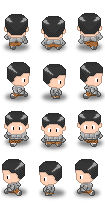
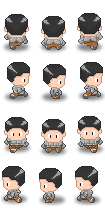
Refatorando movimento de jogador
Alterado o controle de direção do jogador e existe agoa apenas uma
propriedade booleana que diz se ele está em movimento ou não.

Acerto nas alturas das imagens.

diff --git a/cesjfgg2.js b/cesjfgg2.js
@@ -4,8 +4,14 @@ var ctx = tela.getContext("2d");
 ctx.fillRect(0, 0, 400, 300);
 
 var jogador = {
-   x: 370,  y:170, a:25, l:25, vx: 60, vy: 60  
+   x: 10,   y: 10,
+   l: 35,   a: 52,
+   v: 100,
+   quadro: 0,
+   direcao: 0,
+   movendo: false
 };
+   var coluna;
 var porta = {
    x: 370, a:35, y:270, l:25  
 };
@@ -15,19 +21,10 @@ var inimigo = {
 
 
 
-jogador.y = 10;
-jogador.x = 10;
-jogador.a = 48;
-jogador.l = 35;
-jogador.quadro = 0;
-jogador.direcao = 0;
+
 var agora = Date.now();
 var depois = agora;
 var intervalo = 0;
-var moveBaixo = false;
-var moveCima = false;
-var moveDireita = false;
-var moveEsquerda = false;
 var nivel = 1;
 
 var personagemImagem = new Image();
@@ -41,58 +38,58 @@ addEventListener("keyup", botaoSolto);
 
 
 function botaoPressionado(e){
-   //console.log("botao pressionado: " + e.keyCode);
    if (e.keyCode === 40) {
-      moveBaixo = true;
+      jogador.movendo = true;
       jogador.direcao = 2;
    } else if (e.keyCode === 38) {
-      moveCima = true;
+      jogador.movendo = true;
       jogador.direcao = 0;
    } 
    
    if (e.keyCode === 39) {
-      moveDireita = true;
+      jogador.movendo = true;
       jogador.direcao = 1;
    } else if (e.keyCode === 37) {
-      moveEsquerda = true;
+      jogador.movendo = true;
       jogador.direcao = 3;
    }
 }
 
 function botaoSolto(e){
-   //console.log("botao solto: " + e.keyCode);
-   if (e.keyCode === 40) {
-      moveBaixo = false;
-   } else if (e.keyCode === 38) {
-      moveCima = false;
+   if (e.keyCode === 40 && jogador.direcao === 2) {
+      jogador.movendo = false;
+   } else if (e.keyCode === 38 && jogador.direcao === 0) {
+      jogador.movendo = false;
    } 
 
-   if (e.keyCode == 39) {
-      moveDireita = false;
-   } else if (e.keyCode == 37) {
-      moveEsquerda = false;
+   if (e.keyCode == 39 && jogador.direcao === 1) {
+      jogador.movendo = false;
+   } else if (e.keyCode == 37 && jogador.direcao === 3) {
+      jogador.movendo = false;
    }
 }
 
 function passo(){
    agora = Date.now();
    intervalo = agora - depois;
-   //console.log(intervalo);
-   if(moveBaixo){
-      jogador.y=jogador.y+60*intervalo/1000;
-   }
-   
-   if (moveCima) {
-      jogador.y=jogador.y-60*intervalo/1000; 
-   }
-   
-   if (moveDireita) {
-      jogador.x=jogador.x+60*intervalo/1000;         
-   }
 
-   if (moveEsquerda) {
-     jogador.x=jogador.x-60*intervalo/1000;      
+   if(jogador.movendo){
+      switch(jogador.direcao){
+         case 0:
+            jogador.y=jogador.y-jogador.v*intervalo/1000; 
+         break;
+         case 1:
+            jogador.x=jogador.x+jogador.v*intervalo/1000;         
+         break;
+         case 2:
+            jogador.y=jogador.y+jogador.v*intervalo/1000;
+         break;
+         case 3:
+           jogador.x=jogador.x-jogador.v*intervalo/1000;      
+         break;
+      }
    }
+   
    if(jogador.y>=280){
       jogador.y=280;
 
@@ -145,15 +142,20 @@ function passo(){
    //personagem do jogo
    ctx.fillStyle="rgb(255,0,0)";
    ctx.strokeStyle="rgb(255,255,255)"; 
-   ctx.lineWidth=2;
+   ctx.lineWidth=1;
    ctx.beginPath( );
    ctx.rect(jogador.x-jogador.l/2,jogador.y-jogador.a/2,jogador.l,jogador.a);
    ctx.closePath( );
    //ctx.fill();
-   //ctx.stroke();
-   ctx.drawImage(personagemImagem, 35*(Math.floor(jogador.quadro)==3?1:Math.floor(jogador.quadro)), 52*(jogador.direcao), 35, 52,
+   ctx.stroke();
+
+   if(jogador.movendo){
+         coluna = 35*(Math.floor(jogador.quadro)==3?1:Math.floor(jogador.quadro));
+   }else{
+         coluna = 35;
+   }
+   ctx.drawImage(personagemImagem, coluna, 52*(jogador.direcao), 35, 52,
       jogador.x-jogador.l/2,jogador.y-jogador.a/2,jogador.l,jogador.a);
-   console.log(jogador.quadro);
 
 //Desenha porta
    ctx.fillStyle="rgb(155,100,50)";
